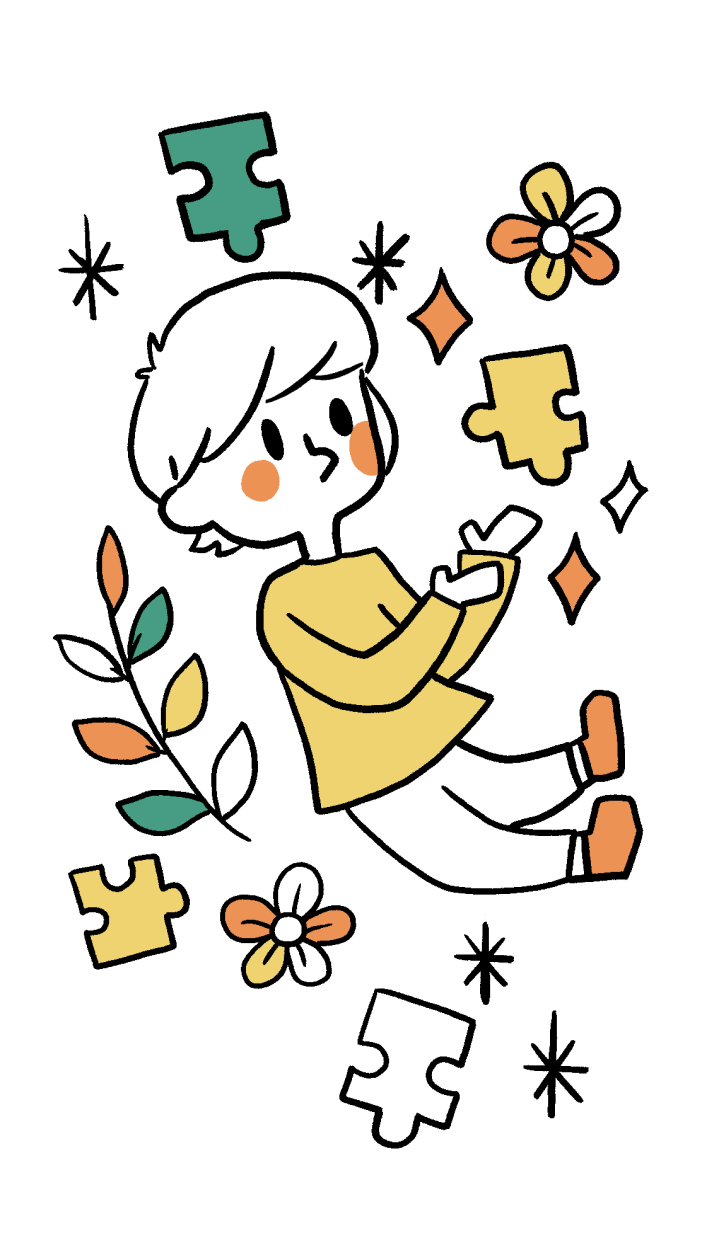
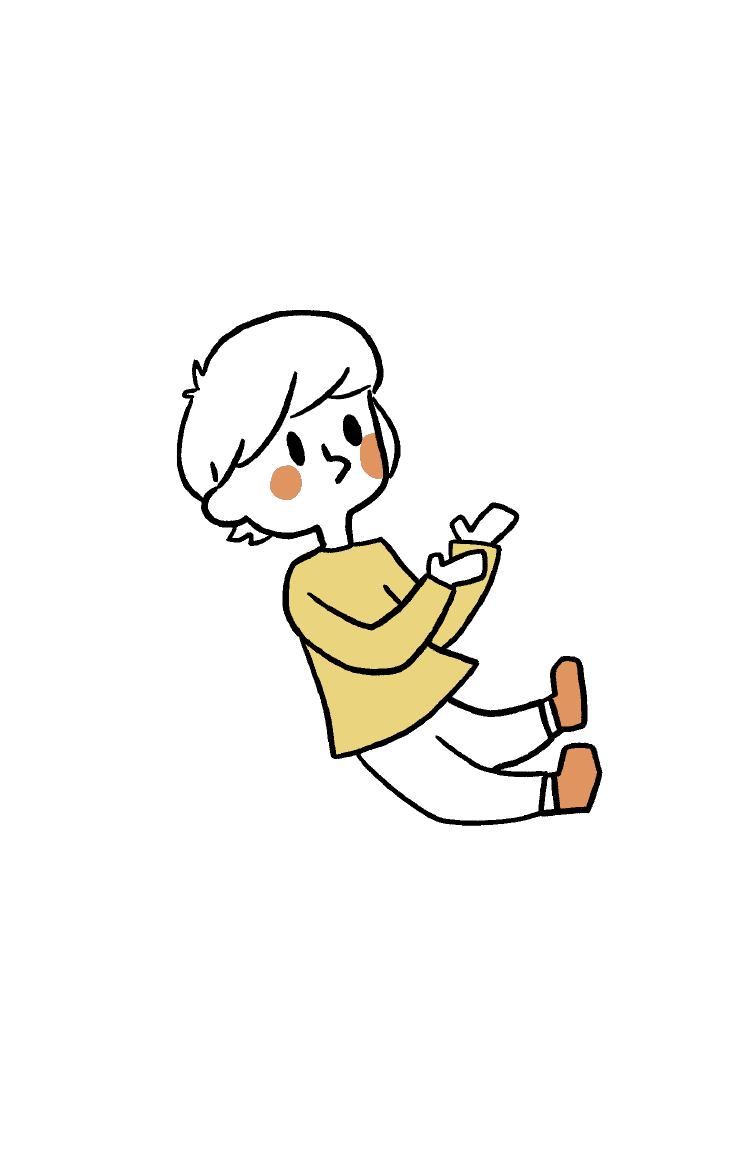
prepare illustration image for animation

diff --git a/src/components/pages/home/about.tsx b/src/components/pages/home/about.tsx
@@ -2,7 +2,9 @@ import Image from 'next/image'
 import styled, { css } from 'styled-components'
 
 import boyIllust from '@/images/boy-illustration.png'
+import boyIllustBg from '@/images/boy-illustration-bg.png'
 import girlIllust from '@/images/girl-illustration.png'
+import girlIllustBg from '@/images/girl-illustration-bg.png'
 import { Style } from '@/const/style'
 import {
   sectionStyle,
@@ -27,10 +29,20 @@ export const About = ({ sectionId }: IAboutProps) => (
         <InlineBlock>発見する二日間</InlineBlock>
       </Lead>
       <ImageContainerLeft>
-        <Image src={boyIllust} alt="" width={351} height={630} />
+        <ImageInner>
+          <Image src={boyIllustBg} alt="" width={370} height={586} />
+        </ImageInner>
+        <ImageInner>
+          <Image src={boyIllust} alt="" width={370} height={586} />
+        </ImageInner>
       </ImageContainerLeft>
       <ImageContainerRight>
-        <Image src={girlIllust} alt="" width={369} height={546} />
+        <ImageInner>
+          <Image src={girlIllustBg} alt="" width={370} height={586} />
+        </ImageInner>
+        <ImageInner>
+          <Image src={girlIllust} alt="" width={370} height={586} />
+        </ImageInner>
       </ImageContainerRight>
       <Paragraph>
         <LineBreak>
@@ -95,6 +107,7 @@ const imageStyle = css`
   display: flex;
   align-items: center;
   margin-bottom: 28px;
+  position: relative;
 `
 
 const ImageContainerLeft = styled.div`
@@ -113,6 +126,10 @@ const ImageContainerRight = styled.div`
     grid-column: 3 / 4;
     grid-row: 1 / 4;
   }
+`
+
+const ImageInner = styled.div`
+  position: absolute;
 `
 
 const Paragraph = styled.p`
